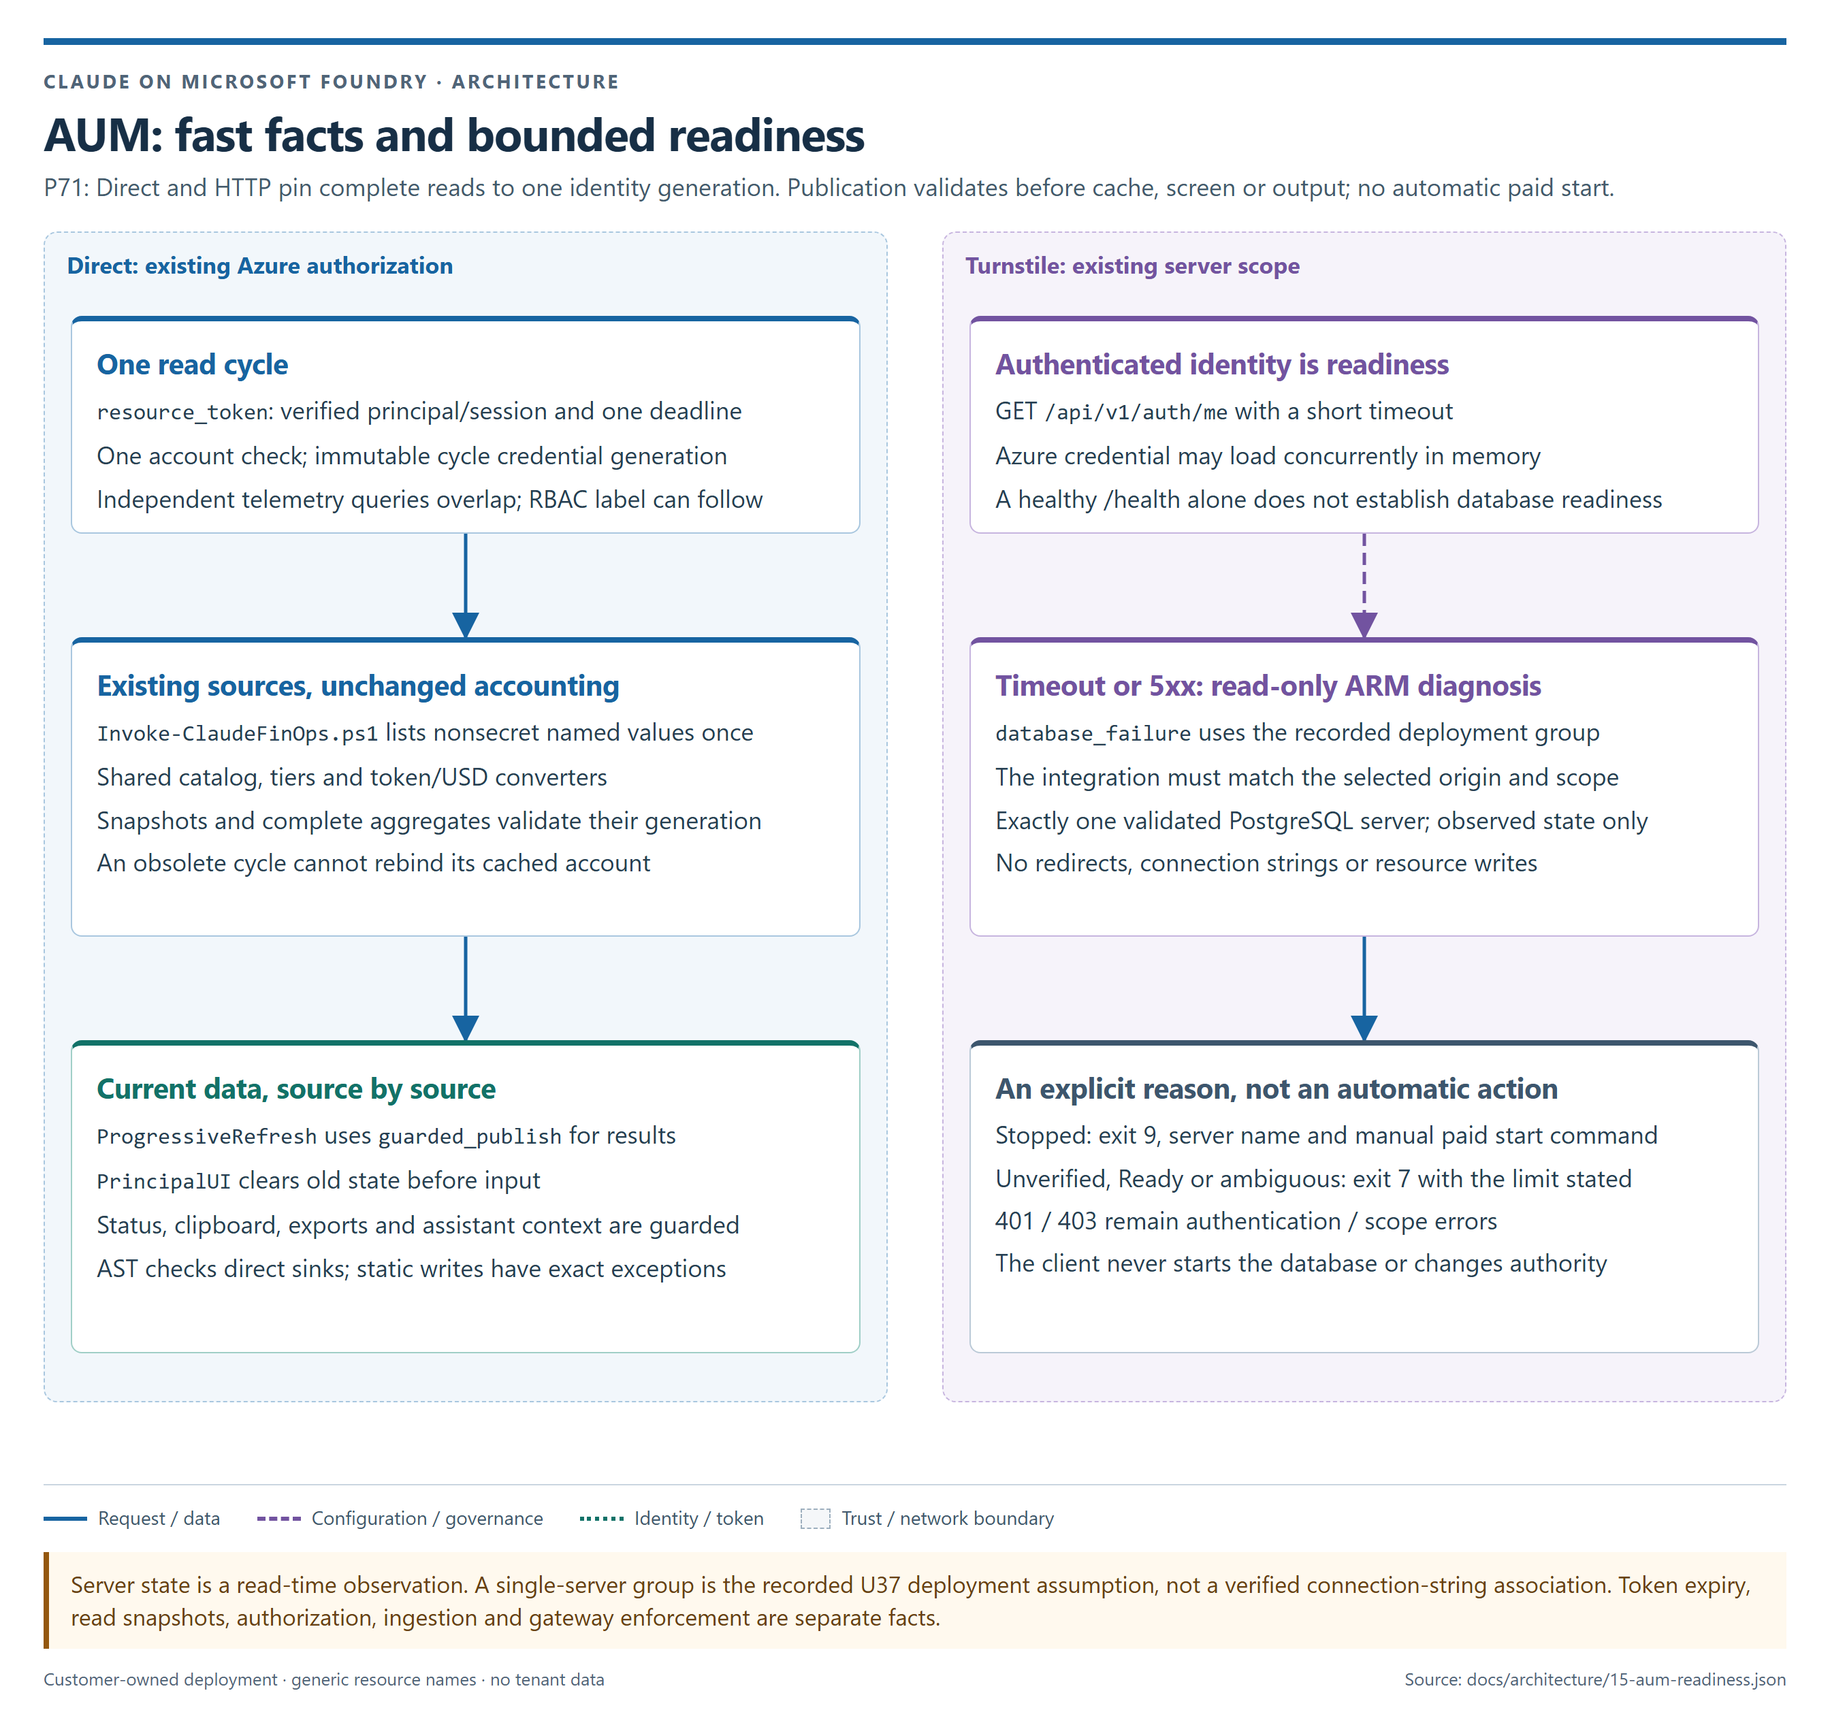
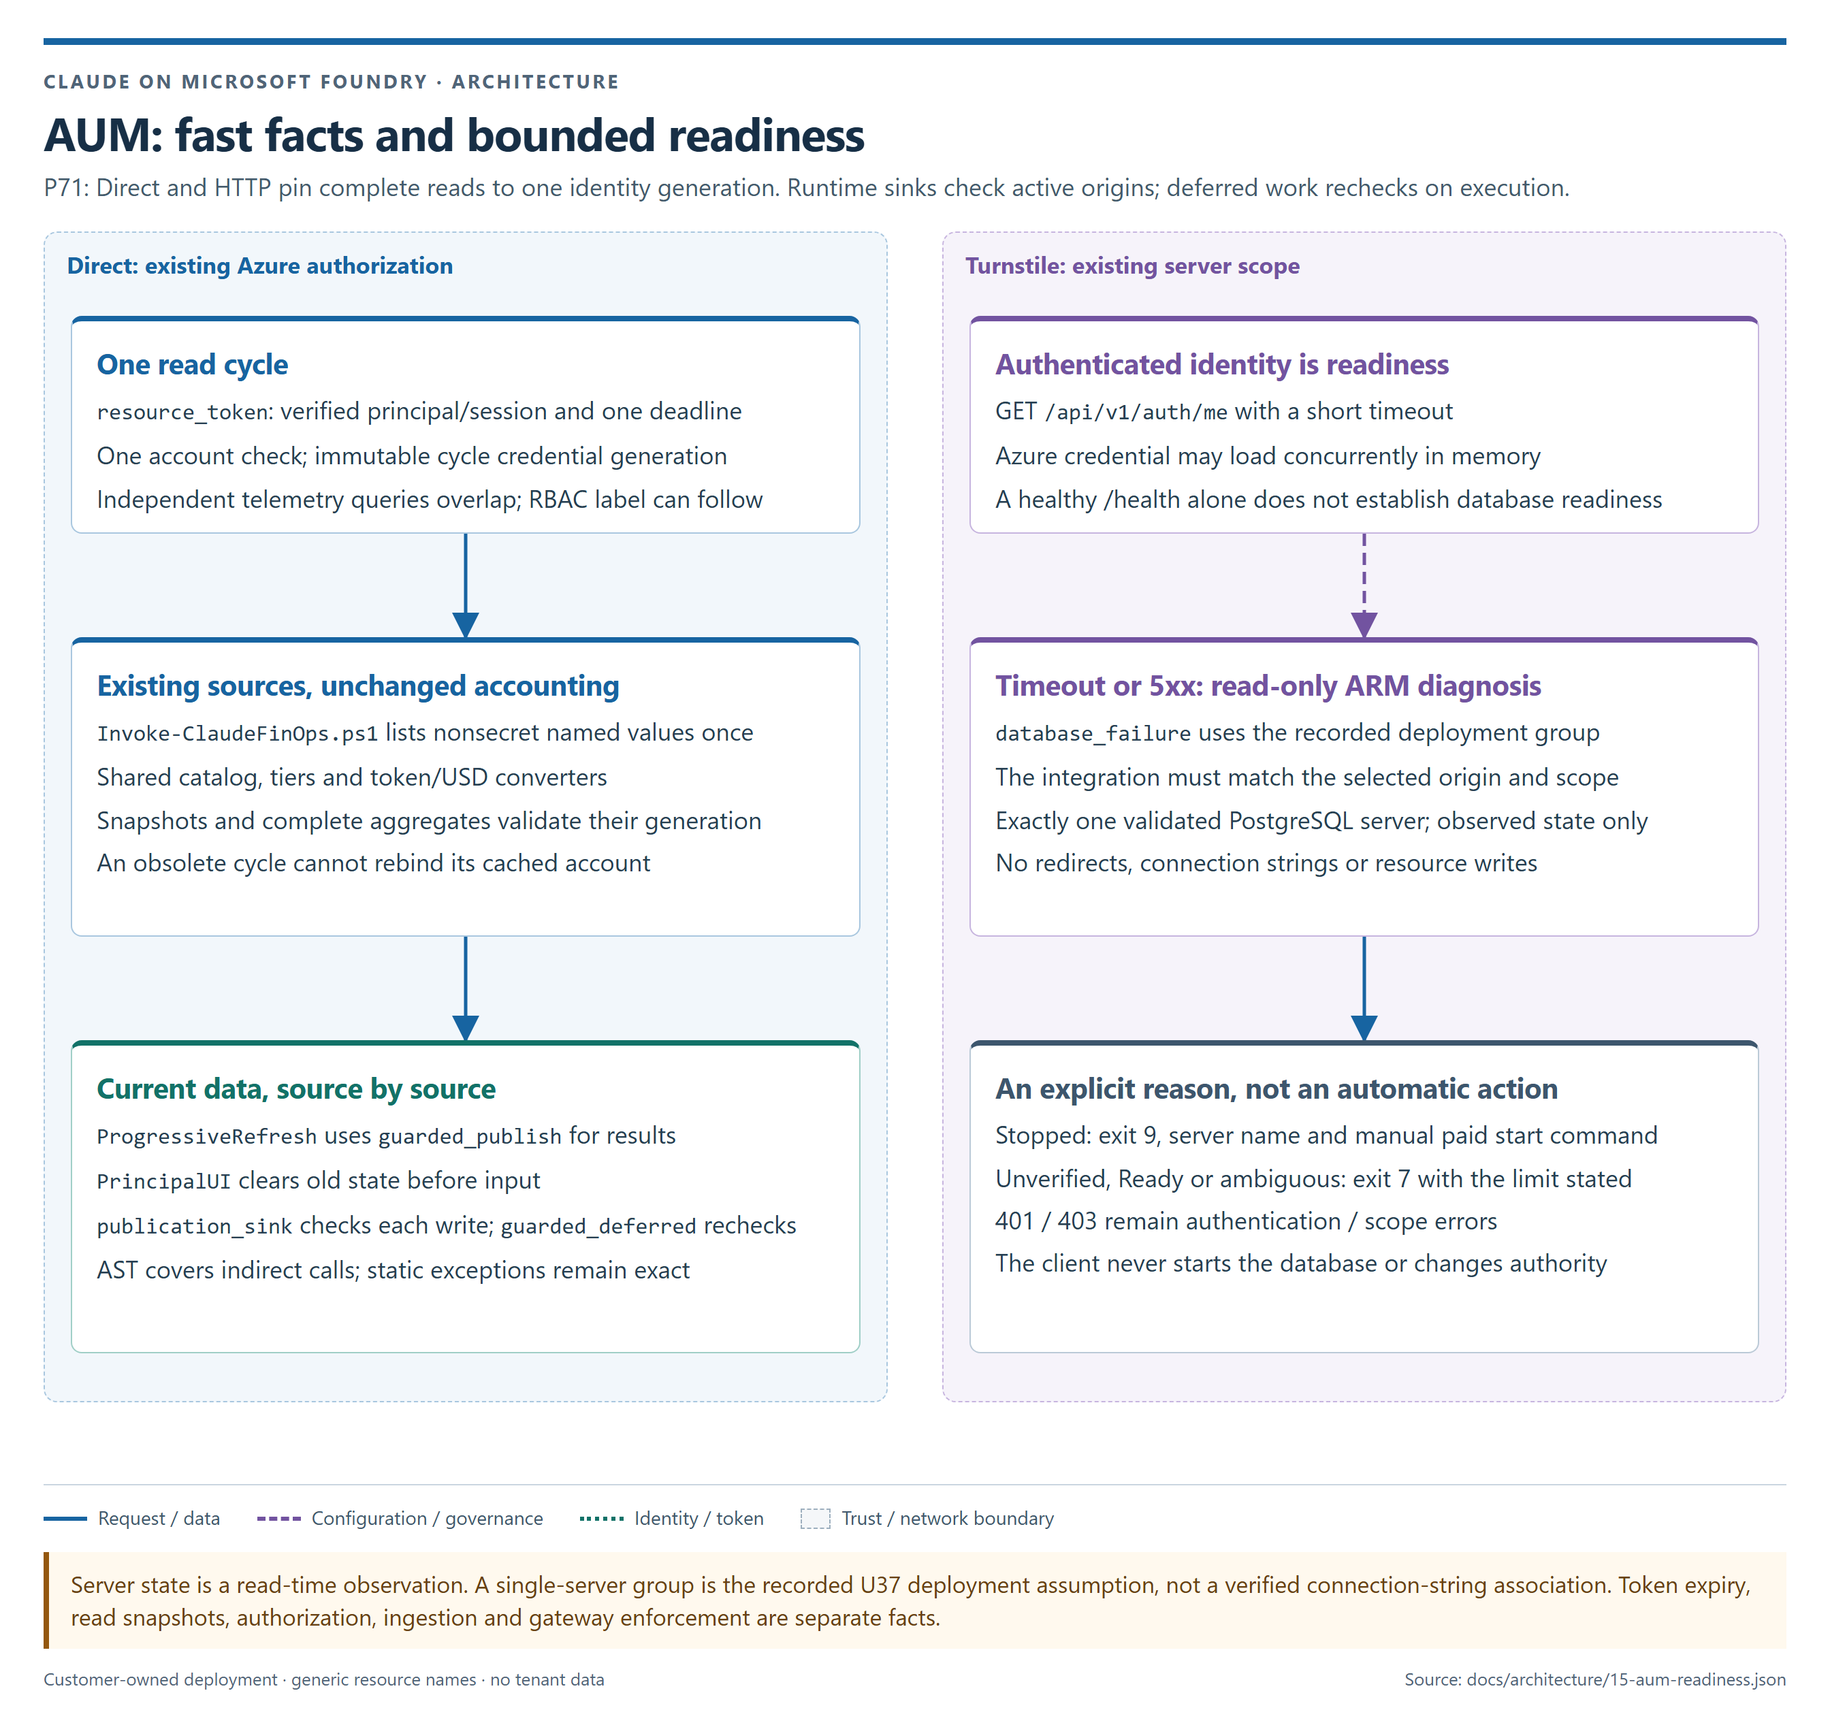
test(p71): preserve input behavior under enforced publication scopes
Declare input origins in existing dashboard and form fixtures without changing
their requests, deadlines or outcome assertions. Record the verified runtime
sink layers and regenerate the source-bound architecture illustration.

Copilot-Session: 1c966b06-b3de-42c0-9254-3a62ae5081bc

Changed region(s): [[0.0625, 0.6859, 0.4375, 0.7482], [0.4375, 0.0935, 0.875, 0.1247]]

diff --git a/cli/finops/tests/test_revision4_tui.py b/cli/finops/tests/test_revision4_tui.py
@@ -6,6 +6,7 @@ from claude_finops.engine import Engine
 from claude_finops.fake import FakeBackend
 from claude_finops.tui import FinOpsApp
 from claude_finops.feature_screens import TourScreen
+from claude_finops.guarded_publication import guarded_publish
 
 
 async def settle(app, pilot):
@@ -22,7 +23,8 @@ async def test_advertised_tabs_and_assistant_reply():
         assert {"ask", "approvals", "advanced"} <= app.allowed_tabs
         await pilot.press("a")
         await settle(app, pilot)
-        app.query_one("#ask-question", Input).value = "Show token usage"
+        with guarded_publish(app.current_guard()):
+            app.query_one("#ask-question", Input).value = "Show token usage"
         await pilot.click("#ask-send")
         await settle(app, pilot)
         assert "Sales" in app.query_one("#ask-answer", TextArea).text
@@ -49,9 +51,10 @@ async def test_owner_mode_form_preview_and_apply():
         await settle(app, pilot)
         app.action_mode()
         await pilot.pause(.3)
-        app.screen.query_one("#field-scope", Input).value = "sales-emea"
-        app.screen.query_one("#field-mode", Select).value = "allowance"
-        app.screen.query_one("#field-allowance", Input).value = "10"
+        with guarded_publish(app.current_guard()):
+            app.screen.query_one("#field-scope", Input).value = "sales-emea"
+            app.screen.query_one("#field-mode", Select).value = "allowance"
+            app.screen.query_one("#field-allowance", Input).value = "10"
         await pilot.click("#action-preview")
         await settle(app, pilot)
         assert not app.screen.query_one("#action-apply", Button).disabled
@@ -69,7 +72,8 @@ async def test_first_run_tour_and_identity_saved_view():
         assert app.preferences.toured
         app.action_save_view()
         await pilot.pause(.2)
-        app.screen.query_one("#field-name", Input).value = "My month"
+        with guarded_publish(app.current_guard()):
+            app.screen.query_one("#field-name", Input).value = "My month"
         await pilot.click("#action-preview")
         await settle(app, pilot)
         await pilot.click("#action-apply")
@@ -128,6 +132,7 @@ async def test_approval_paging_and_queue_change_reset_cursor():
         await pilot.press("n")
         await settle(app, pilot)
         assert len(app.records["approvals"]) == 5
-        app.query_one("#approval-view", Select).value = "history"
+        with guarded_publish(app.current_guard()):
+            app.query_one("#approval-view", Select).value = "history"
         await settle(app, pilot)
         assert app.feature_cursor is None and not app.feature_cursor_stack

diff --git a/cli/finops/tests/test_group_tui.py b/cli/finops/tests/test_group_tui.py
@@ -3,6 +3,7 @@ from claude_finops.config import Config
 from claude_finops.engine import Engine
 from claude_finops.fake import FakeBackend
 from claude_finops.tui import FinOpsApp
+from claude_finops.guarded_publication import guarded_publish
 
 
 class FakeGraph:
@@ -22,7 +23,8 @@ async def test_add_scope_discovers_group_before_catalog_form():
         await app.workers.wait_for_complete()
         app.action_add()
         await pilot.pause()
-        app.screen.query_one("#group-search", Input).value = "contoso"
+        with guarded_publish(app.current_guard()):
+            app.screen.query_one("#group-search", Input).value = "contoso"
         await pilot.press("enter")
         await pilot.pause()
         await app.workers.wait_for_complete()
@@ -52,8 +54,9 @@ async def test_group_creation_form_previews_owner_implications_before_apply():
         await pilot.pause()
         await pilot.click("#group-create")
         await pilot.pause()
-        app.screen.query_one("#field-name", Input).value = "aum-e2e-unit-example"
-        app.screen.query_one("#field-confirm", Input).value = "aum-e2e-unit-example"
+        with guarded_publish(app.current_guard()):
+            app.screen.query_one("#field-name", Input).value = "aum-e2e-unit-example"
+            app.screen.query_one("#field-confirm", Input).value = "aum-e2e-unit-example"
         await pilot.click("#action-preview")
         await pilot.pause()
         await app.workers.wait_for_complete()

diff --git a/cli/finops/tests/test_dashboard.py b/cli/finops/tests/test_dashboard.py
@@ -7,6 +7,7 @@ from claude_finops.dashboard import DashboardPanel, budget_totals, enforcement_b
 from claude_finops.engine import Engine
 from claude_finops.fake import FakeBackend
 from claude_finops.tui import FinOpsApp
+from claude_finops.guarded_publication import guarded_publish
 
 
 def test_gauge_never_double_counts_unit_and_team():
@@ -104,7 +105,8 @@ async def test_local_filter_and_revision_four_slash_lookup():
         await pilot.pause(.25)
         await app.workers.wait_for_complete()
         await pilot.press("ctrl+f")
-        app.query_one("#quick-filter", Input).value = "sales-emea"
+        with guarded_publish(app.current_guard()):
+            app.query_one("#quick-filter", Input).value = "sales-emea"
         await pilot.pause()
         assert len(app.records["budgets"]) == 1
         await pilot.press("escape", "/")
@@ -169,7 +171,8 @@ async def test_redacted_queries_do_not_leak_through_input_or_filter_echo():
         assert app.query_one("#people-query", Input).password
         assert secret_id not in app.export_screenshot()
         await pilot.press("ctrl+f")
-        app.query_one("#quick-filter", Input).value = "private@example.org"
+        with guarded_publish(app.current_guard()):
+            app.query_one("#quick-filter", Input).value = "private@example.org"
         await pilot.pause(.25)
         assert "private@example.org" not in app.export_screenshot()
 

diff --git a/cli/finops/tests/test_revision4_review.py b/cli/finops/tests/test_revision4_review.py
@@ -10,6 +10,7 @@ from claude_finops.engine import Engine
 from claude_finops.fake import FakeBackend
 from claude_finops.tui import FinOpsApp
 from claude_finops.errors import FinOpsError
+from claude_finops.guarded_publication import guarded_publish
 
 
 async def settle(app, pilot):
@@ -26,7 +27,8 @@ async def test_ask_cannot_write_in_preview_or_redacted_mode(preview, redact):
         await settle(app, pilot)
         app.action_tab("ask")
         await settle(app, pilot)
-        app.query_one("#ask-question", Input).value = "Show usage"
+        with guarded_publish(app.current_guard()):
+            app.query_one("#ask-question", Input).value = "Show usage"
         await pilot.click("#ask-send")
         await settle(app, pilot)
         assert not backend.writes
@@ -43,7 +45,8 @@ async def test_bulk_file_change_invalidates_preview():
             await settle(app, pilot)
             app.action_bulk()
             await pilot.pause(.2)
-            app.screen.query_one("#field-file", Input).value = str(path)
+            with guarded_publish(app.current_guard()):
+                app.screen.query_one("#field-file", Input).value = str(path)
             await pilot.click("#action-preview")
             await settle(app, pilot)
             assert "200000" in str(app.screen.query_one("#action-status", Static).render())

diff --git a/cli/finops/tests/test_revision4_navigation.py b/cli/finops/tests/test_revision4_navigation.py
@@ -5,6 +5,7 @@ from claude_finops.config import Config
 from claude_finops.engine import Engine
 from claude_finops.fake import FakeBackend
 from claude_finops.tui import FinOpsApp
+from claude_finops.guarded_publication import guarded_publish
 
 
 async def settle(app, pilot):
@@ -26,10 +27,12 @@ async def test_query_context_changes_discard_bound_cursor(change):
         if change == "month":
             app.action_month()
             await pilot.pause()
-            app.screen.query_one("#month-input", Input).value = "2026-08"
+            with guarded_publish(app.current_guard()):
+                app.screen.query_one("#month-input", Input).value = "2026-08"
             await pilot.click("#set-month")
         elif change == "request-filter":
-            app.query_one("#request-model", Input).value = "claude-sonnet"
+            with guarded_publish(app.current_guard()):
+                app.query_one("#request-model", Input).value = "claude-sonnet"
             app.filter_requests()
         else:
             app.scope_filters = {"organization_id": "engineering"}

diff --git a/docs/STATUS.md b/docs/STATUS.md
@@ -144,11 +144,11 @@ required boundary.
 
 | Seat | Round 6 verdict | Finding | Fix |
 |---|---|---|---|
-| Architect | BLOCK | A deferred callable can outlive a syntactically guarded scope | Pending: sink-layer validation and one explicit guarded deferral wrapper |
+| Architect | BLOCK | A deferred callable can outlive a syntactically guarded scope | `a7dc395` / `5c1eb74`: sink-layer validation and explicit guarded deferral |
 | Coder | PASS | Reviewed runtime implementation accepted | Retained |
-| QA | BLOCK | Lambda, dynamic attribute and partial spellings evade the detector | Pending: RED fixtures/runtime probes and full-selector mutations |
+| QA | BLOCK | Lambda, dynamic attribute and partial spellings evade the detector | `b6aef61`: RED fixtures and extended detector; full-selector mutations pending |
 | UX | PASS | Reviewed B4/B5 behavior accepted | Retained |
-| Security | BLOCK | B6a-d: deferred lambda/def, getattr, setattr and partial can publish outside their source guard | Pending: active/current-origin checks at every presentation sink |
+| Security | BLOCK | B6a-d: deferred lambda/def, getattr, setattr and partial can publish outside their source guard | `a7dc395` / `5c1eb74`: active/current-origin checks at presentation and egress sinks; `bcf8554`: explicit refusal without ending the UI message loop |
 
 All four probes become failing structural and runtime tests before the fix.
 The existing 51 exact static-write exceptions are retained. Heavier affected
@@ -191,6 +191,13 @@ The dispatch boundary now reports `FinOpsError` before the framework leaves
 that loop; both lifecycle cases pass, including 256 ordinary input edits.
 The original terminal/form file passes **11 cases** after its direct setup
 assignments declare their input origin. No outcome assertion changed.
+The remaining directly affected input fixtures also pass as individual files:
+Dashboard **19**, directory forms **4**, feature controls **7**, navigation **6**
+and review regressions **5**. These six files total **52 cases**. Only setup
+assignments gained an originating scope; all deadlines, assertions and
+requested values are unchanged. The architecture renderer verified 16 specs
+and 18 images; the changed AUM readiness image was inspected and contains
+generic component names, not deployment identifiers.
 
 ### Council round 5 corrections
 

diff --git a/docs/AUM.md b/docs/AUM.md
@@ -493,6 +493,15 @@ widget/property/status/clipboard/export/assistant writes outside this boundary.
 Its exact, documented static-write allowlist covers local shell labels, resets
 and fixed controls, not whole handlers. JSON/linear/table formatters require an
 active guarded publication, and an async wait cannot be inside that write scope.
+The sinks also enforce this at runtime: widget updates and values, status,
+clipboard/links, final terminal/file writers and assistant HTTP egress check
+the active origin at the write. A lambda, dynamic attribute call or partial
+does not inherit permission from where it was created.
+`guarded_deferred(origin, callback)` checks the retained source when a callback
+runs. Async callbacks retain a scope lifetime without holding an identity lock
+across waits; each later sink checks again. The AST detector separately checks
+dynamic sink access and escaping callbacks for all supported schedulers. The
+51 exact static-write exceptions remain unchanged.
 
 Overview displays each source as it arrives. Pending panels name their source,
 and the progress line shows an estimate and elapsed time. Estimates are not

diff --git a/docs/adr/0035-aum-bounded-readiness-and-progressive-reads.md b/docs/adr/0035-aum-bounded-readiness-and-progressive-reads.md
@@ -243,6 +243,15 @@ lock across an await. The AST contract is a second line of defense: dynamic
 sink attributes, partials and guarded-scope callbacks escaping to schedulers
 must not bypass it. The 51 static exceptions remain exact and separate from
 documented framework-internal access needed to implement the sink layer.
+The concrete layers are `publication_widgets.py` (Textual methods, properties
+and app clipboard/links), `publication_output.py` (final text, rich, CSV file
+and clipboard-helper output), and the HTTP assistant-request transport.
+They delegate to `publication_sink`, which checks the active source through
+`guarded_publish` at the write. Six identified framework input/mount handlers
+and framework input actions use retained provenance; application handlers and
+layout/idle dispatch do not gain implicit authority. A refused scheduled write
+is handled before Textual abandons its message loop, clearing the view and
+retaining the explicit exit-3 explanation.
 
 The reported navigation cancellation is investigated with a bounded repeated
 test/file run under the shared lock. No timeout, assertion or suite budget is

diff --git a/docs/ARCHITECTURE.md b/docs/ARCHITECTURE.md
@@ -525,6 +525,13 @@ Round 5 routes presentation and assistant-context reuse through one
 `guarded_publish` function. `PrincipalUI` clears prior-principal state before
 input dispatch; an AST test checks the publication boundary across UI/output
 modules with exact static-write exceptions.
+Round 6 adds sink-layer enforcement in `publication_widgets.py` and
+`publication_output.py`, with assistant egress checked at the HTTP transport.
+`publication_sink` delegates to the same publication boundary at each write.
+`guarded_deferred` re-enters a retained origin on execution; async work holds
+no identity lock while suspended. Framework input has narrowly identified
+handlers, not a general exemption for application callbacks. The AST contract
+checks indirect sinks and escaping callbacks as a second line of defense.
 
 ![AUM readiness uses bounded authenticated HTTP and read-only Azure diagnosis; Direct shares a snapshot and returns independent sources progressively.](images/architecture/aum-readiness.png)
 

diff --git a/CHANGELOG.md b/CHANGELOG.md
@@ -50,6 +50,10 @@ exact streaming cache-creation detail remains **U13**.
   Round-five publication uses one guarded execution boundary with an AST
   contract; verified principal transitions clear all presentation/assistant
   state before input, including highlighted status and outgoing history.
+  Round-six widget, terminal/file, clipboard and assistant-transport sinks
+  validate active origins at execution, including indirect calls. Explicit
+  deferral rechecks the source on execution; the structural detector also
+  covers lambda/def, dynamic attributes and partials.
 - **Reviewed model lifecycle (P70).** `-Action Change -Change models` and
   `scripts/Sync-ClaudeModels.ps1` discover the selected Foundry account, show deployment
   model/version/SKU/capacity and price status, accept per-deployment tier choices, snapshot
